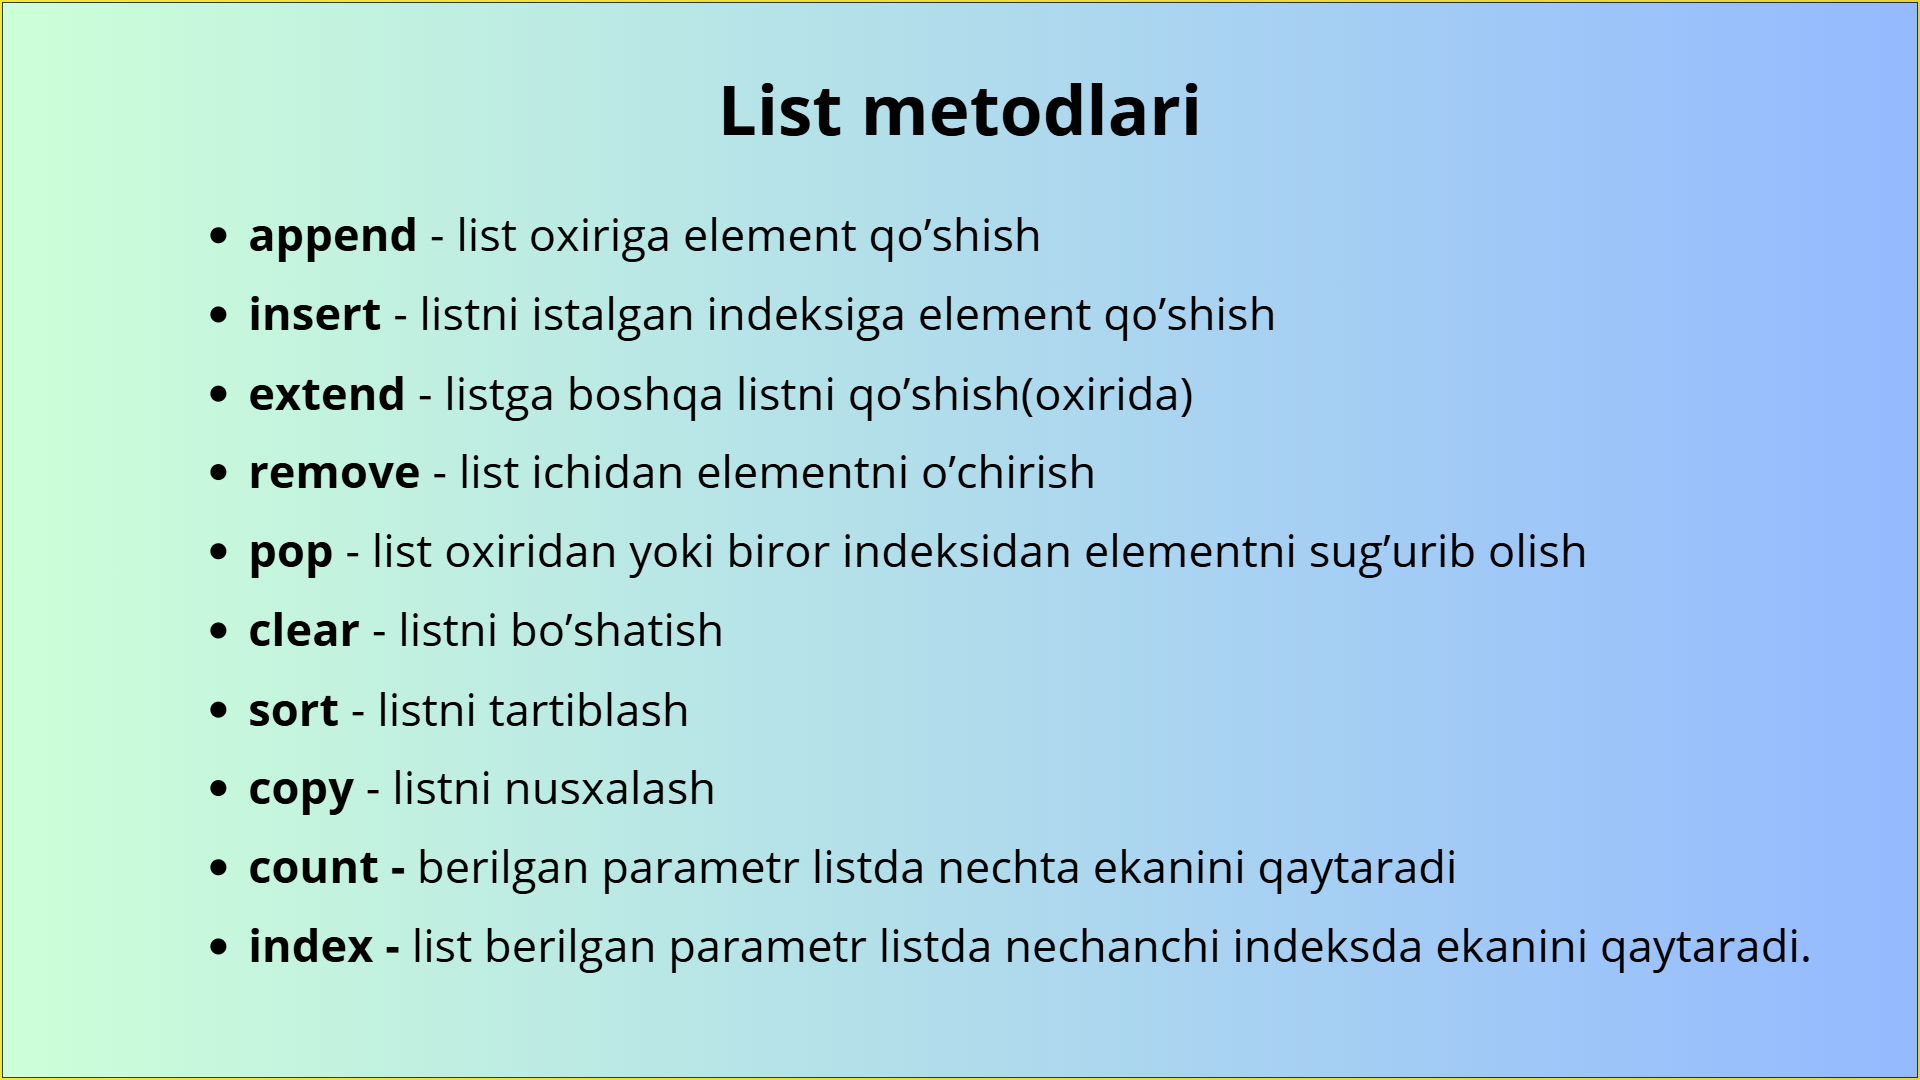
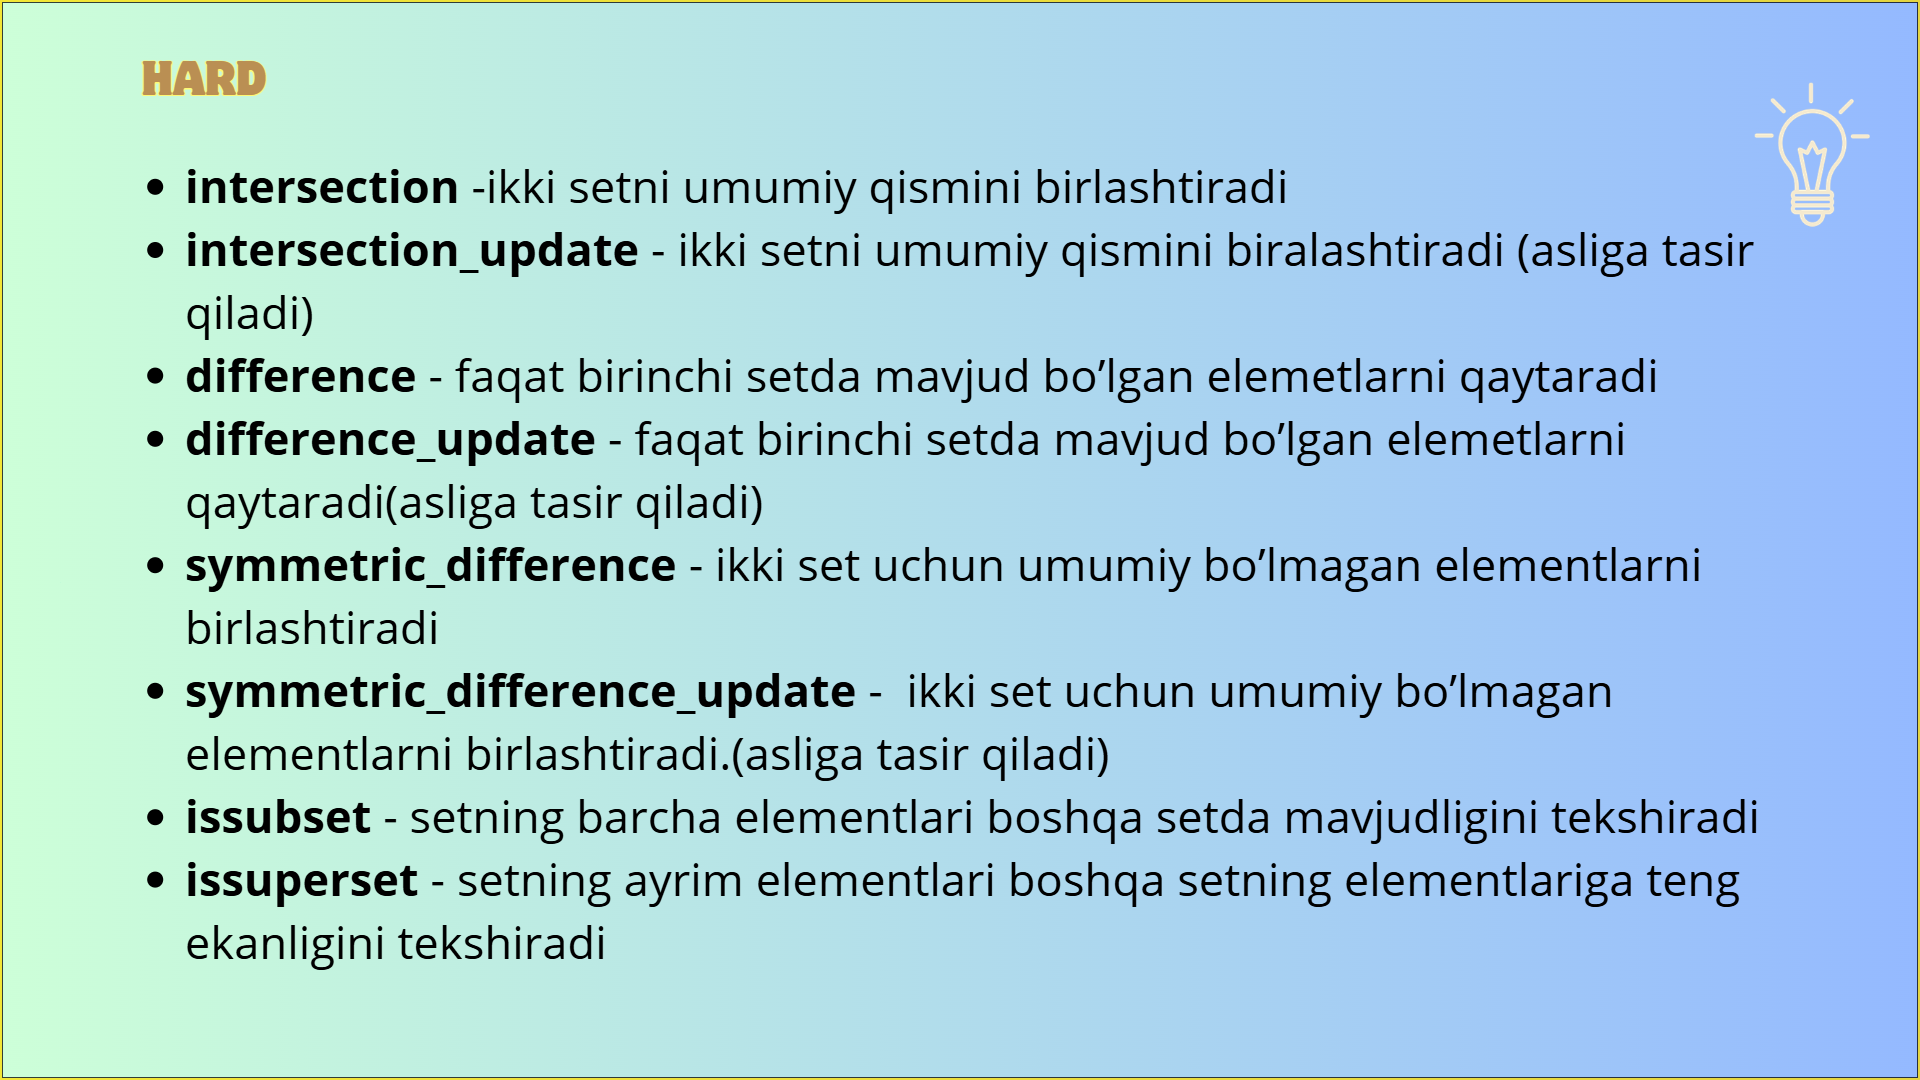
Set

diff --git a/main.py b/main.py
@@ -1,35 +1,42 @@
 import os
 os.system("cls")
 
-lst = [8,6,3,25,1,4,2,5,7]
+myset = {4,7,2,1,3,5,6,8,9,10}
+myset2 = {4,5,6,7,8,9}
 
-# lst.append(11)
-# lst.append(['a','b','c'])
-# print(lst)
+# myset.update(myset2)
+# myset3 = myset.union(myset2)
 
-# lst.insert(4,"salom")
-# print(lst)
+# myset3 = myset.intersection(myset2)
+# myset.intersection_update(myset2)
 
-# lst2 = [99,88,77]
-# lst.extend(lst2)
-# print(lst)
+# myset3 = myset.difference(myset2)
+# myset.difference_update(myset2)
 
-# lst.remove(25)
-# print(lst)
+# myset3 = myset.symmetric_difference(myset2)
+# myset.symmetric_difference_update(myset2)
 
-# a = lst.pop(3)
-# print(a)
-# print(lst)
+# print(myset2.issubset(myset))
 
-# lst.clear()
-# print(lst)
+# print(myset2.issuperset(myset))
 
-# lst.sort(reverse=True)
-# print(lst)
-
-# lst2 = lst.copy()
-# lst2 = lst
-# lst2[2] = "Bugun sening kuning"
-# print(lst2, lst, sep='\n')
+# print(myset3)
+# print(myset)
 
 
+# myset = {1,0,True,False}
+# print(myset)
+
+
+
+
+
+
+
+
+
+
+
+
+# print(myset[2])
+# myset[1] = 15
